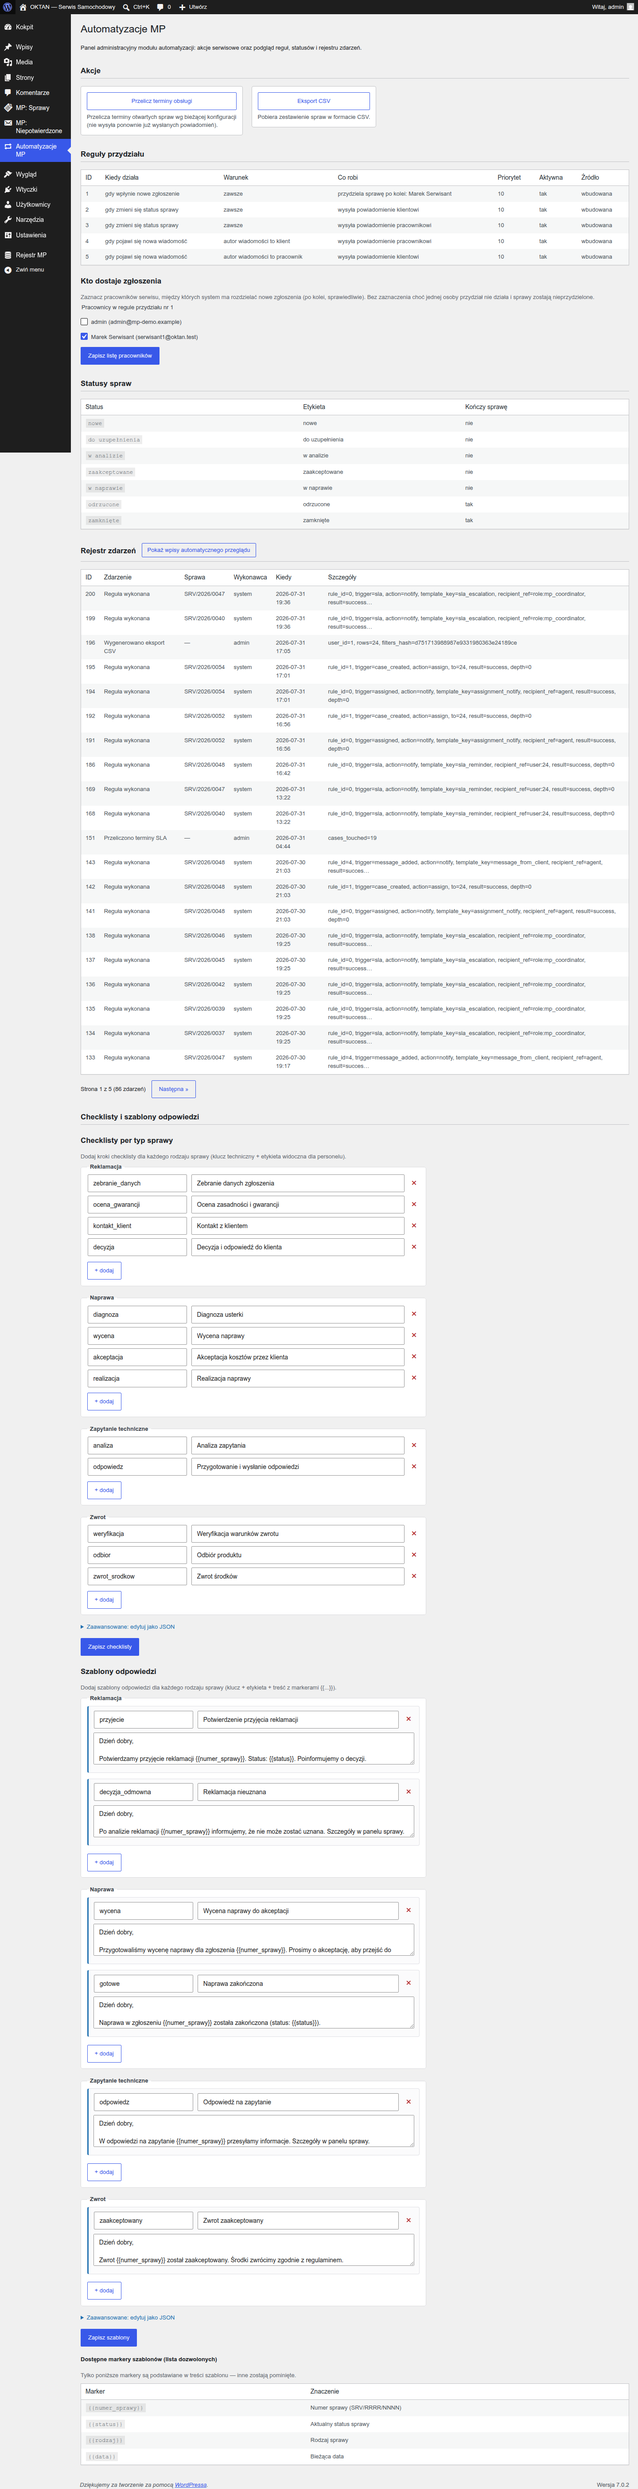
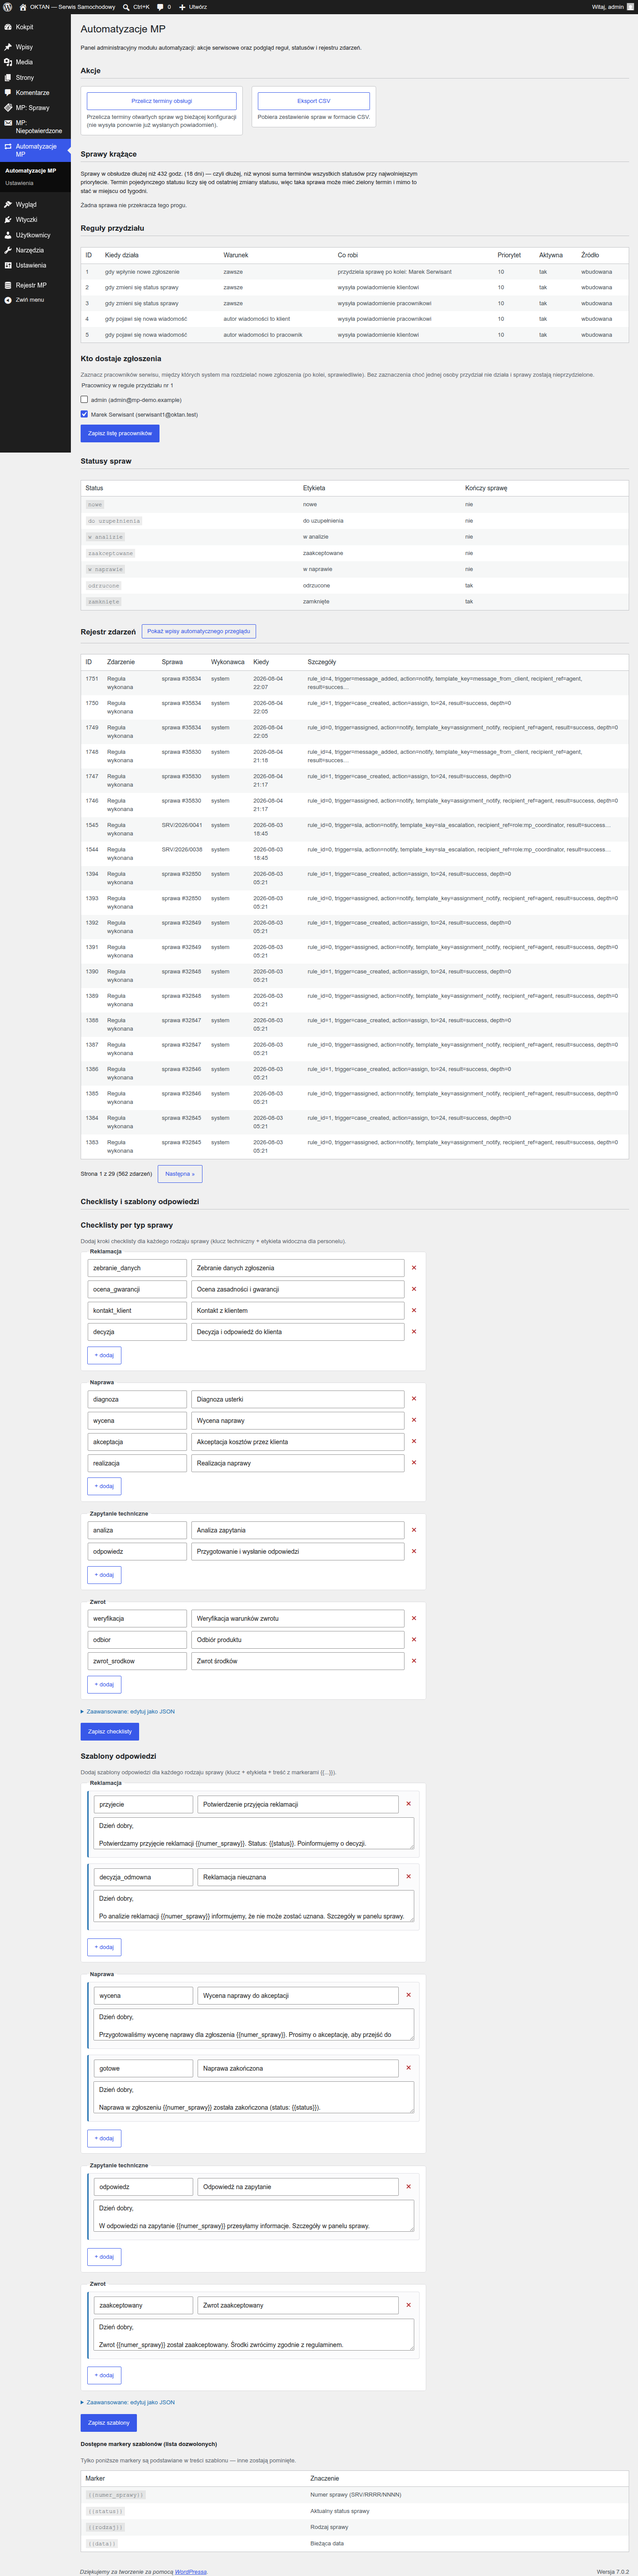
wip: W3/W4/W5 (przed scaleniem galezi koordynatora)

diff --git a/mp-workflow-automator/includes/Admin/PanelScreen.php b/mp-workflow-automator/includes/Admin/PanelScreen.php
@@ -887,8 +887,31 @@ final class PanelScreen {
 			return (string) $ctx['case_number'];
 		}
 
-		/* translators: %d = wewnetrzny numer sprawy (gdy Intake nie odpowiada). */
-		return sprintf( __( 'sprawa #%d', 'mp-workflow-automator' ), $case_id );
+		/*
+		 * ⛔ TU BYLA WADA W3 (kontrola na zywej instalacji): 18 z 20 wpisow pokazywalo
+		 * „sprawa #35834", czyli WEWNETRZNY numer wiersza, ktorego nie ma na zadnym
+		 * innym ekranie — czlowiek nie mial jak powiazac wpisu ze sprawa.
+		 *
+		 * ⛔ I DLACZEGO NIE WOLNO NAPISAC PO PROSTU „sprawa usunieta": `mp_case_get_context`
+		 * z zalozenia odpowiada WYLACZNIE o sprawach zweryfikowanych (kontrakt D->C w module
+		 * zgloszen), wiec brak odpowiedzi ma DWIE rozne przyczyny: sprawy nie ma juz w bazie
+		 * ALBO sprawa istnieje, tylko klient nie potwierdzil jej mailem. Napis „usunieta"
+		 * na sprawie niepotwierdzonej bylby klamstwem — i to takim, ktore wyszloby dopiero
+		 * przy reklamacji.
+		 *
+		 * Dlatego pytamy osobno o samo ISTNIENIE wiersza (`mp_case_exists` po weryfikacji
+		 * NIE filtruje) i rozrozniamy trzy stany. Wewnetrzne ID zostaje w nawiasie, bo jest
+		 * jedynym zaczepem przy zglaszaniu awarii.
+		 */
+		$istnieje = (bool) apply_filters( 'mp_case_exists', false, $case_id );
+
+		if ( $istnieje ) {
+			/* translators: %d = wewnetrzny numer sprawy. */
+			return sprintf( __( 'sprawa niepotwierdzona (#%d)', 'mp-workflow-automator' ), $case_id );
+		}
+
+		/* translators: %d = wewnetrzny numer sprawy. */
+		return sprintf( __( 'sprawa usunięta (#%d)', 'mp-workflow-automator' ), $case_id );
 	}
 
 	/**
@@ -923,18 +946,51 @@ final class PanelScreen {
 		$data = json_decode( $payload, true );
 
 		if ( ! is_array( $data ) ) {
-			return self::truncate( $payload );
+			/*
+			 * ⛔ WADA W4: tu szedl SUROWY tekst deweloperski, przyciety w polowie slowa
+			 * („…result=succes…"). Dla koordynatora to szum, ktory na dodatek wyglada
+			 * jak awaria. Kolumna ma mowic po polsku albo nic — wiec nic.
+			 */
+			return '—';
 		}
+
+		/*
+		 * Klucze payloadu sa nazwami technicznymi (`rule_id`, `template_key`) i tak
+		 * zostaja w bazie — tlumaczymy je WYLACZNIE na ekranie. Klucza spoza slownika
+		 * NIE pokazujemy: lepiej krotsza prawda niz pelny surowy zapis, ktorego i tak
+		 * nikt tu nie czyta. Kolumna „Zdarzenie" obok mowi, CO sie stalo; ta mowi tylko,
+		 * czego dotyczylo.
+		 */
+		$slownik = array(
+			'rule_id'       => __( 'reguła nr', 'mp-workflow-automator' ),
+			'template_key'  => __( 'szablon', 'mp-workflow-automator' ),
+			'recipient_ref' => __( 'odbiorca', 'mp-workflow-automator' ),
+			'trigger'       => __( 'wyzwalacz', 'mp-workflow-automator' ),
+			'action'        => __( 'akcja', 'mp-workflow-automator' ),
+			'object'        => __( 'ustawienie', 'mp-workflow-automator' ),
+			'value'         => __( 'wartość', 'mp-workflow-automator' ),
+			'error_code'    => __( 'powód niepowodzenia', 'mp-workflow-automator' ),
+			'status'        => __( 'status', 'mp-workflow-automator' ),
+			'new_status'    => __( 'nowy status', 'mp-workflow-automator' ),
+			'priority'      => __( 'priorytet', 'mp-workflow-automator' ),
+			'count'         => __( 'liczba', 'mp-workflow-automator' ),
+		);
 
 		$parts = array();
 
 		foreach ( $data as $k => $v ) {
-			if ( is_scalar( $v ) ) {
-				$parts[] = $k . '=' . (string) $v;
+			if ( ! is_scalar( $v ) || ! isset( $slownik[ $k ] ) ) {
+				continue;
 			}
+
+			$wartosc = is_bool( $v )
+				? ( $v ? __( 'tak', 'mp-workflow-automator' ) : __( 'nie', 'mp-workflow-automator' ) )
+				: (string) $v;
+
+			$parts[] = $slownik[ $k ] . ': ' . $wartosc;
 		}
 
-		return self::truncate( implode( ', ', $parts ) );
+		return array() === $parts ? '—' : self::truncate( implode( ' · ', $parts ) );
 	}
 
 	/**
@@ -944,7 +1000,20 @@ final class PanelScreen {
 	 * @return string
 	 */
 	private static function truncate( string $s ): string {
-		return mb_strlen( $s ) > 120 ? mb_substr( $s, 0, 117 ) . '…' : $s;
+		if ( mb_strlen( $s ) <= 120 ) {
+			return $s;
+		}
+
+		// ⛔ Cofamy sie do ostatniej spacji, zeby nie urwac w POLOWIE SLOWA — to byla
+		// polowa wady W4: „…result=succes…" wyglada jak uszkodzone dane, a nie jak skrot.
+		$ciety = mb_substr( $s, 0, 117 );
+		$spacja = mb_strrpos( $ciety, ' ' );
+
+		if ( false !== $spacja && $spacja > 60 ) {
+			$ciety = mb_substr( $ciety, 0, $spacja );
+		}
+
+		return rtrim( $ciety, " ·," ) . '…';
 	}
 
 	/**

diff --git a/mp-warranty-registry/includes/Admin/ImportScreen.php b/mp-warranty-registry/includes/Admin/ImportScreen.php
@@ -359,7 +359,22 @@ final class ImportScreen {
 				<tr>
 					<th scope="col"><?php esc_html_e( 'Import', 'mp-warranty-registry' ); ?></th>
 					<th scope="col"><?php esc_html_e( 'Status', 'mp-warranty-registry' ); ?></th>
-					<th scope="col"><?php esc_html_e( 'Wiersze', 'mp-warranty-registry' ); ?></th>
+					<?php
+					/*
+					 * ⛔ WADA W5 (kontrola na zywej instalacji): ten sam import pokazywal
+					 * jednoczesnie „8 / 8 wierszy" i „8 bledow", co czyta sie jak sprzecznosc.
+					 * W danych sprzecznosci nie bylo — `processed_rows` liczy wiersze
+					 * PRZETWORZONE (udane RAZEM z bledami), wiec „8 z 8" znaczylo „wszystkie
+					 * osiem przerobione", a nie „osiem dodanych". Sprzecznosc siedziala
+					 * w NAPISIE: naglowek „Wiersze" obiecywal wynik, a pokazywal postep.
+					 *
+					 * Tabela ma juz kolumne `success_rows` i to jej klient szuka. Pokazujemy
+					 * ZAIMPORTOWANE z wszystkich — wtedy dla tamtego importu wychodzi
+					 * „0 / 8" i „8 bledow", czyli zdanie prawdziwe i zgodne samo ze soba
+					 * na kazdym etapie (zaimportowane + bledy <= wszystkie).
+					 */
+					?>
+					<th scope="col"><?php esc_html_e( 'Zaimportowane / wszystkie', 'mp-warranty-registry' ); ?></th>
 					<th scope="col"><?php esc_html_e( 'Błędy', 'mp-warranty-registry' ); ?></th>
 					<th scope="col"><?php esc_html_e( 'Utworzony', 'mp-warranty-registry' ); ?></th>
 					<th scope="col"><?php esc_html_e( 'Raport błędów', 'mp-warranty-registry' ); ?></th>
@@ -370,7 +385,7 @@ final class ImportScreen {
 					<tr>
 						<td>#<?php echo esc_html( (string) (int) $job['id'] ); ?></td>
 						<td><?php echo esc_html( $labels[ (string) $job['status'] ] ?? (string) $job['status'] ); ?></td>
-						<td><?php echo esc_html( number_format_i18n( (int) $job['processed_rows'] ) . ' / ' . number_format_i18n( (int) $job['total_rows'] ) ); ?></td>
+						<td><?php echo esc_html( number_format_i18n( (int) $job['success_rows'] ) . ' / ' . number_format_i18n( (int) $job['total_rows'] ) ); ?></td>
 						<td><?php echo esc_html( number_format_i18n( (int) $job['error_rows'] ) ); ?></td>
 						<td><?php echo esc_html( (string) $job['created_at'] ); ?></td>
 						<td>
